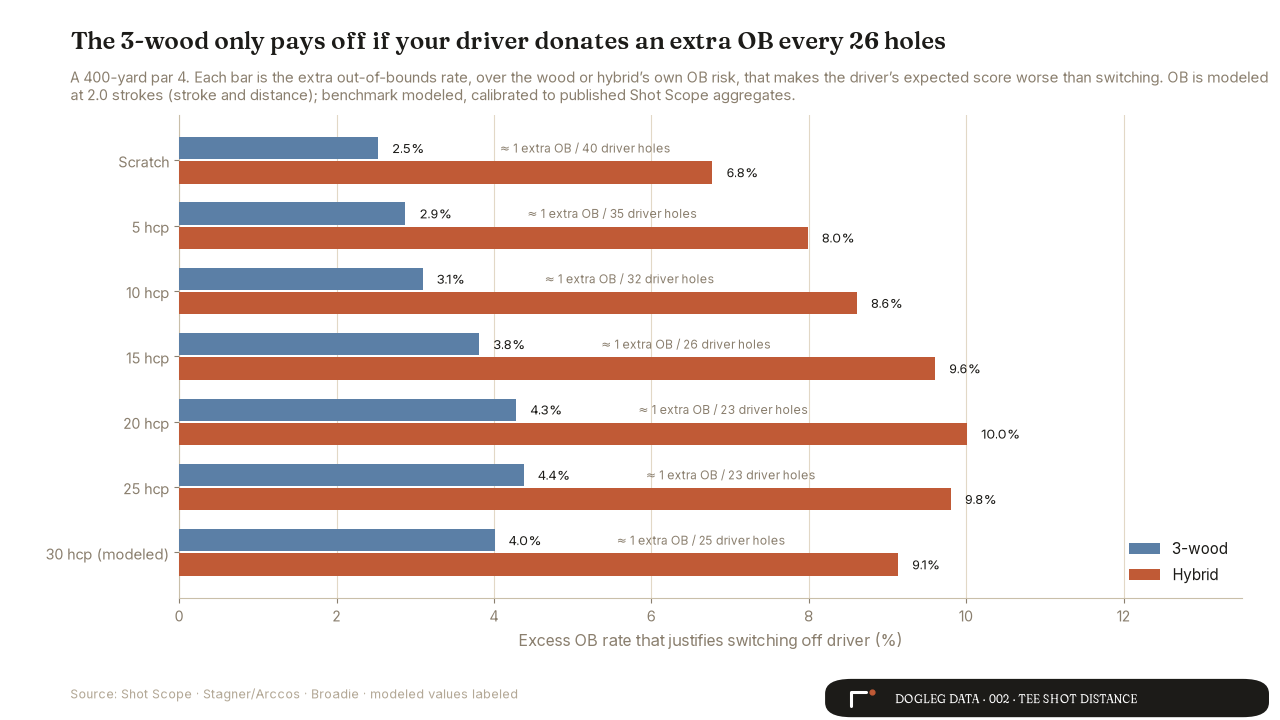
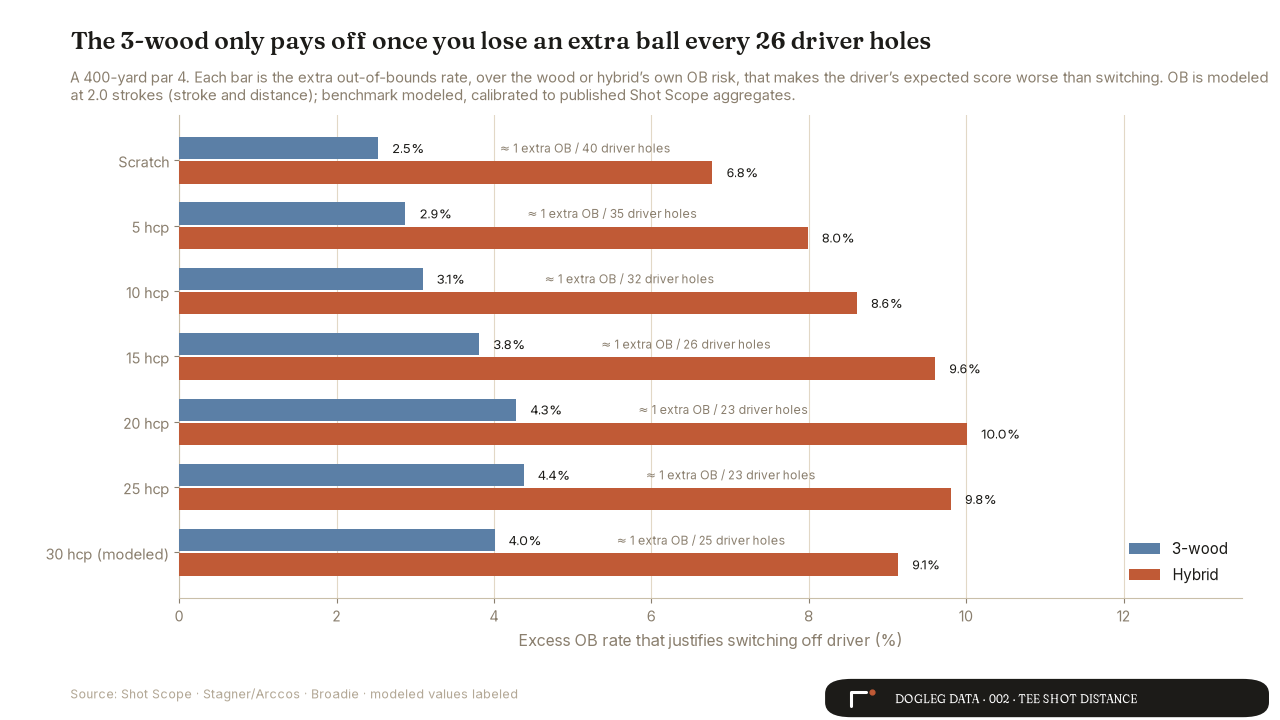
002: golfer-as-actor copy sweep, chart 6 retitled, adverbs out

Changed region(s): [[0.2812, 0.0306, 0.75, 0.0917]]

diff --git a/site/tee-shot-distance/index.html b/site/tee-shot-distance/index.html
@@ -5,14 +5,14 @@
 <meta name="viewport" content="width=device-width, initial-scale=1.0">
 <title>230 Yards Is Enough: How Far You Need to Drive It · Dogleg Data</title>
 <!-- seo -->
-<meta name="description" content="Hack It Out Golf asked how far you need to hit it for zero strokes gained. The model answers: 230 for a 10-handicap on a 360-yard par 4, and the driver keeps its job unless it donates an extra OB every 26 holes.">
+<meta name="description" content="Hack It Out Golf asked how far you need to hit it for zero strokes gained. The model answers: 230 for a 10-handicap on a 360-yard par 4, and you keep hitting driver unless you lose an extra ball to OB every 26 holes with it.">
 <link rel="canonical" href="https://doglegdata.com/tee-shot-distance/">
 <meta name="theme-color" content="#F4EDE0">
 <link rel="icon" href="../assets/brand/favicon.svg" type="image/svg+xml">
 <link rel="apple-touch-icon" href="../assets/brand/apple-touch-icon.png">
 <meta property="og:type" content="article">
 <meta property="og:title" content="230 Yards Is Enough: How Far You Need to Drive It · Dogleg Data">
-<meta property="og:description" content="Hack It Out Golf asked how far you need to hit it for zero strokes gained. The model answers: 230 for a 10-handicap on a 360-yard par 4, and the driver keeps its job unless it donates an extra OB every 26 holes.">
+<meta property="og:description" content="Hack It Out Golf asked how far you need to hit it for zero strokes gained. The model answers: 230 for a 10-handicap on a 360-yard par 4, and you keep hitting driver unless you lose an extra ball to OB every 26 holes with it.">
 <meta property="og:url" content="https://doglegdata.com/tee-shot-distance/">
 <meta property="og:site_name" content="Dogleg Data">
 <meta property="og:image" content="https://doglegdata.com/assets/img/002_chart1_cost_line.png">
@@ -27,7 +27,7 @@
   "@context": "https://schema.org",
   "@type": "Article",
   "headline": "230 Yards Is Enough: How Far You Need to Drive It for Zero Strokes Gained",
-  "description": "Hack It Out Golf asked how far you need to hit it for zero strokes gained. The model answers: 230 for a 10-handicap on a 360-yard par 4, and the driver keeps its job unless it donates an extra OB every 26 holes.",
+  "description": "Hack It Out Golf asked how far you need to hit it for zero strokes gained. The model answers: 230 for a 10-handicap on a 360-yard par 4, and you keep hitting driver unless you lose an extra ball to OB every 26 holes with it.",
   "image": "https://doglegdata.com/assets/img/002_chart1_cost_line.png",
   "datePublished": "2026-07-20",
   "author": {
@@ -186,7 +186,7 @@
     <div class="article-header">
       <span class="kicker">Analysis Nº 002</span>
       <h1>230 Yards Is Enough: How Far You Need to Drive It for Zero Strokes Gained</h1>
-      <p class="dek">Hack It Out Golf asked how far you need to hit it to break even against your handicap peers. I built the model. A 10-handicap needs 230 on a 360-yard par 4, the 3-wood is a 0.08-stroke luxury, and the driver keeps its job unless it donates an extra OB every 26 holes.</p>
+      <p class="dek">Hack It Out Golf asked how far you need to hit it to break even against your handicap peers. I built the model. A 10-handicap needs 230 on a 360-yard par 4, the 3-wood costs 0.08 strokes, and you keep hitting driver unless you lose an extra ball to OB every 26 holes with it.</p>
       <div class="byline">Sunny Rathor · Founder, Dogleg Data<span class="sep">·</span>July 20, 2026<span class="sep">·</span>8 min read</div>
     </div>
 
@@ -211,7 +211,7 @@
 
       <h2>Your average drive lives past the line</h2>
 
-      <p>Chart 2 shows the same fact as a curve. Expected score falls as drives get longer, then flattens, and the shaded zone marks every drive distance that keeps the hole within a tenth of a stroke of your benchmark. The headroom runs from 24 yards for a 5-handicap down to 16 for a 20. You could give back that many yards off your average and the hole would barely notice.</p>
+      <p>Chart 2 shows the same fact as a curve. Expected score falls as drives get longer, then flattens, and the shaded zone marks every drive distance that keeps the hole within a tenth of a stroke of your benchmark. The headroom runs from 24 yards for a 5-handicap down to 16 for a 20. Give back that many yards off your average and the hole charges you less than a tenth of a stroke.</p>
 
       <figure>
         <img src="../assets/img/002_chart2_flat_zone.png" width="2680" height="1920" alt="Four panels for 5, 10, 15, and 20 handicaps showing expected strokes falling as drive distance grows and flattening past the cost line; each tier's average drive sits inside the shaded within-margin zone with 16 to 24 yards of headroom">
@@ -222,7 +222,7 @@
 
       <p>This analysis started with a suspicion about the second shot. Fine, the short drive doesn't cost much off the tee, but now you're staring at 180 in. Doesn't that bill come due somewhere?</p>
 
-      <p>It does, and it's the whole bill. When a 15-handicap drives 220 instead of their usual 236 on a 400-yard hole, the cost is 0.09 strokes, and every hundredth of it is the longer approach. The lie mix doesn't move, because with the same club in your hands, a shorter carry buys no fairways. Shot Scope's published accuracy numbers back this up: fairway-hit rates barely move from scratch to 25-handicap.</p>
+      <p>It does, and it's the whole bill. When a 15-handicap drives 220 instead of their usual 236 on a 400-yard hole, the cost is 0.09 strokes, and every hundredth of it is the longer approach. The lie mix doesn't move, because with the same club in your hands, a shorter carry buys no fairways. Shot Scope's published accuracy numbers back this up: fairway-hit rates hold between 46 and 49 percent from scratch to 25-handicap.</p>
 
       <figure>
         <img src="../assets/img/002_chart3_decomposition.png" width="2680" height="1920" alt="Two panels: shorter drives with the same club cost 0.09 to 0.35 strokes, all of it approach; switching to 3-wood costs 0.15 in approach but accuracy buys back 0.07, netting 0.08">
@@ -234,11 +234,11 @@
       <div class="cta-card">
         <span class="kicker">Run your own hole</span>
         <h3>Your par 4, your handicap, your drive.</h3>
-        <p>The calculator behind this post is the working model. It returns your expected score, your strokes gained against your tier, the cost line for the hole, and the club that gives up nothing.</p>
+        <p>The calculator behind this post is the working model. It returns your expected score, your strokes gained against your tier, the cost line for the hole, and a driver-or-backup verdict for the club you trust.</p>
         <a class="btn btn-solid" href="tool.html">Open the calculator</a>
       </div>
 
-      <h2>The club off the tee barely matters</h2>
+      <h2>The club off the tee is a rounding error</h2>
 
       <p>Chart 4 runs the driver-versus-3-wood trade across the full grid, seven tiers by ten hole lengths. The driver wins every cell on average, and it never wins big. The worst case anywhere is 0.12 strokes, on the longest holes for the tiers that hit it far enough to exploit them. For a 25-handicap on a 320-yard hole, the 3-wood costs 0.02.</p>
 
@@ -257,14 +257,14 @@
 
       <p><strong>Is the 3-wood ever worth it off the tee?</strong> On an open hole, no. It runs 0.05 to 0.09 strokes behind the driver on a 400-yard hole, depending on tier, and its tighter dispersion never pays back the full distance it gives up. The studies you have read saying the 3-wood is a placebo hold up in this model. What those studies skip is the next question.</p>
 
-      <p><strong>So when does the safe club pay?</strong> When the driver brings a penalty the safe club avoids. Price it: an out-of-bounds drive costs about two strokes. For a 15-handicap on a 400-yard hole, the 3-wood breaks even once it dodges one extra OB every 26 driver holes. A 20-handicap needs one every 23. Miss OB less than that with the driver and the driver stays; miss more and the 3-wood is a bargain, no swing change required.</p>
+      <p><strong>So when does the safe club pay?</strong> When you hit OB with the driver on drives the safe club would keep in play. Price it: an out-of-bounds drive costs about two strokes. For a 15-handicap on a 400-yard hole, you break even on the 3-wood once the driver puts you OB one extra time every 26 driver holes. A 20-handicap breaks even at one every 23. Call it 14 tee shots a round: if you lose an extra ball about once every two rounds with the driver, the 3-wood pays on the holes where the trouble lives. Lose one a season and you keep hitting driver.</p>
 
       <figure>
         <img src="../assets/img/002_chart6_bailout.png" width="2680" height="1920" alt="Chart showing the excess OB rate at which a 3-wood or hybrid beats the driver, by handicap: roughly one extra OB every 23 to 40 driver holes for the 3-wood, every 10 to 15 for the hybrid">
-        <figcaption><strong>Chart 6.</strong> The bailout threshold: how often your driver must donate an extra OB before the safe club wins, at a 400-yard par 4. OB modeled at 2.0 strokes, stroke and distance. <span class="source-line">Source: same model; benchmark modeled, calibrated to published Shot Scope aggregates.</span> <span class="badge-modeled">modeled</span></figcaption>
+        <figcaption><strong>Chart 6.</strong> The bailout threshold: how often you must lose an extra ball with the driver before the safe club wins, at a 400-yard par 4. OB modeled at 2.0 strokes, stroke and distance. <span class="source-line">Source: same model; benchmark modeled, calibrated to published Shot Scope aggregates.</span> <span class="badge-modeled">modeled</span></figcaption>
       </figure>
 
-      <p><strong>Should you build a thriver or buy a 5-wood or 7-wood for the tee?</strong> Run the same test. A 5-wood or 7-wood sits between the 3-wood and hybrid rungs, so its break-even sits between one extra OB every 23 and one every 10 driver holes at mid handicaps. Count your last ten rounds. If the driver put you out of bounds twice more than your fairway wood would have, the wood earned the job on those holes. If it went OB once all season, keep swinging the driver and stop shopping.</p>
+      <p><strong>Should you build a thriver or buy a 5-wood or 7-wood for the tee?</strong> Run the same test. A 5-wood or 7-wood sits between the 3-wood and hybrid rungs, so its break-even sits between one extra OB every 23 and one every 10 driver holes at mid handicaps. Count your last ten rounds. If you went out of bounds with the driver five or more times on drives the wood would have kept in play, pull the wood on those holes. One OB all season? Keep swinging the driver and stop shopping.</p>
 
       <h2>What this does not say</h2>
 
@@ -303,7 +303,7 @@
       <div class="cta-card">
         <span class="kicker">Run your own numbers</span>
         <h3>Take the cost line to the course</h3>
-        <p>The calculator returns the cost line for any par 4 at your handicap, plus the strokes-gained verdict on the drive you actually hit. Built on the same data this post cites, source lines included.</p>
+        <p>The calculator returns the cost line for any par 4 at your handicap, plus the strokes-gained verdict on the drive you hit. Built on the same data this post cites, source lines included.</p>
         <a class="btn btn-solid" href="tool.html">Open the calculator</a>
       </div>
 

diff --git a/site/index.html b/site/index.html
@@ -104,7 +104,7 @@
         <span class="kicker">Analysis Nº 002</span>
         <h3>230 Yards Is Enough: How Far You Need to Drive It</h3>
         <div class="meta">July 20, 2026</div>
-        <p class="dek">Hack It Out Golf asked how far you need to hit it for zero strokes gained against your handicap peers. The model answers at every handicap: 230 for a 10-handicap on a 360-yard par 4, and the driver keeps its job unless it donates an extra OB every 26 holes, a <span class="badge-modeled">modeled</span> result calibrated to published Shot Scope scoring.</p>
+        <p class="dek">Hack It Out Golf asked how far you need to hit it for zero strokes gained against your handicap peers. The model answers at every handicap: 230 for a 10-handicap on a 360-yard par 4, and you keep hitting driver unless you lose an extra ball to OB every 26 holes with it, a <span class="badge-modeled">modeled</span> result calibrated to published Shot Scope scoring.</p>
         <a class="btn btn-outline" href="tee-shot-distance/index.html">Read the analysis</a>
         <a class="btn btn-outline" href="tee-shot-distance/tool.html">Open the calculator</a>
       </div>

diff --git a/analysis/002-tee-shot-distance/chart6.py b/analysis/002-tee-shot-distance/chart6.py
@@ -33,7 +33,7 @@ ALT_COLORS = {"wood": "#5B7FA6", "hybrid": "#C05A36"}  # denim / baked clay
 
 # p* per tier per alt club. bailout_threshold returns None when the alt club
 # already beats the driver outright; none of the published tiers hit that at
-# 400 yd (the driver's extra distance always earns its keep absent OB risk),
+# 400 yd (absent OB risk the driver's extra distance always pays),
 # but the chart tolerates it (bar simply omitted, annotated "n/a").
 THRESHOLDS = {
     club: {t: bailout_threshold(HOLE_YARDS, t, club) for t in data.TIERS}
@@ -47,8 +47,8 @@ assert _T15_WOOD is not None and _T15_WOOD > 0
 N_HOLES_T15 = round(1.0 / _T15_WOOD)
 
 TITLE = (
-    f'The 3-wood only pays off if your driver donates an extra OB every '
-    f'{N_HOLES_T15} holes'
+    f'The 3-wood only pays off once you lose an extra ball every '
+    f'{N_HOLES_T15} driver holes'
 )
 
 

diff --git a/docs/sources/002_Tee_Shot_Caption.md b/docs/sources/002_Tee_Shot_Caption.md
@@ -18,9 +18,9 @@ Chart 3 answers the question that started this analysis. When a 15-handicap driv
 
 Chart 4 generalizes that trade. The driver wins every cell of the grid, all seven handicap tiers by all ten hole lengths, and it never wins by much. The worst case anywhere for the 3-wood is 0.12 strokes. Hit the club you trust; the cost never tops an eighth of a stroke.
 
-Chart 6 prices the exception. The 3-wood or a 5/7-wood earns the tee once your driver donates an extra OB about every 26 holes (a 15-handicap at 400 yards; 23 to 40 across tiers, OB modeled at 2 strokes). Irons never earn it on a straight par 4: a 4-iron costs 0.23, a 7-iron 0.39.
+Chart 6 prices the exception. Switch to the 3-wood or a 5/7-wood once the driver puts you OB an extra time about every 26 holes, one lost ball every two rounds or so (15-handicap at 400 yards; 23 to 40 across tiers, OB modeled at 2 strokes). Irons stay in the bag on a straight par 4: a 4-iron costs 0.23 strokes, a 7-iron 0.39.
 
-The verdicts, plainly: hit driver on most par 4s; the 3-wood is a 0.05-to-0.09-stroke luxury on an open 400-yard hole; irons off the tee are donations; and the bailout club pays only past the OB threshold above.
+The verdicts, plainly: hit driver on most par 4s; the 3-wood is a 0.05-to-0.09-stroke luxury on an open 400-yard hole; irons off the tee are donations; and you pull the bailout club only past the OB count above.
 
 Chart 5 is the number to remember: 230.
 
@@ -40,9 +40,9 @@ I built the model. A 10-handicap needs 230 on a 360-yard par 4. 28 yards UNDER t
 
 h/t @LouStagner @4golfonline @GregChalmersPGA
 
-T2 (247 chars):
+T2 (253 chars):
 
-The full answer, at every handicap, with the approach shot priced in. Plus the one that surprised me: the 3-wood only pays off if your driver donates an extra OB every 26 holes.
+The full answer, at every handicap, with the approach shot priced in. Plus the one that surprised me: the 3-wood only pays off once you lose an extra ball to OB every 26 driver holes.
 
 Article + free calculator: https://doglegdata.com/tee-shot-distance/
 
@@ -65,7 +65,7 @@ I ran @HackItOutGolf's 0SG question at every handicap. Four verdicts:
 
 1. Driver wins every tier, every length
 2. The 3-wood is a 0.05-0.09 stroke luxury
-3. Irons off the tee donate 0.2-0.4
-4. Bench the driver once it costs an extra OB every 26 holes
+3. Irons off the tee cost you 0.2-0.4
+4. Bench the driver once you lose an extra ball every 26 holes
 
 Model + calculator, free:
